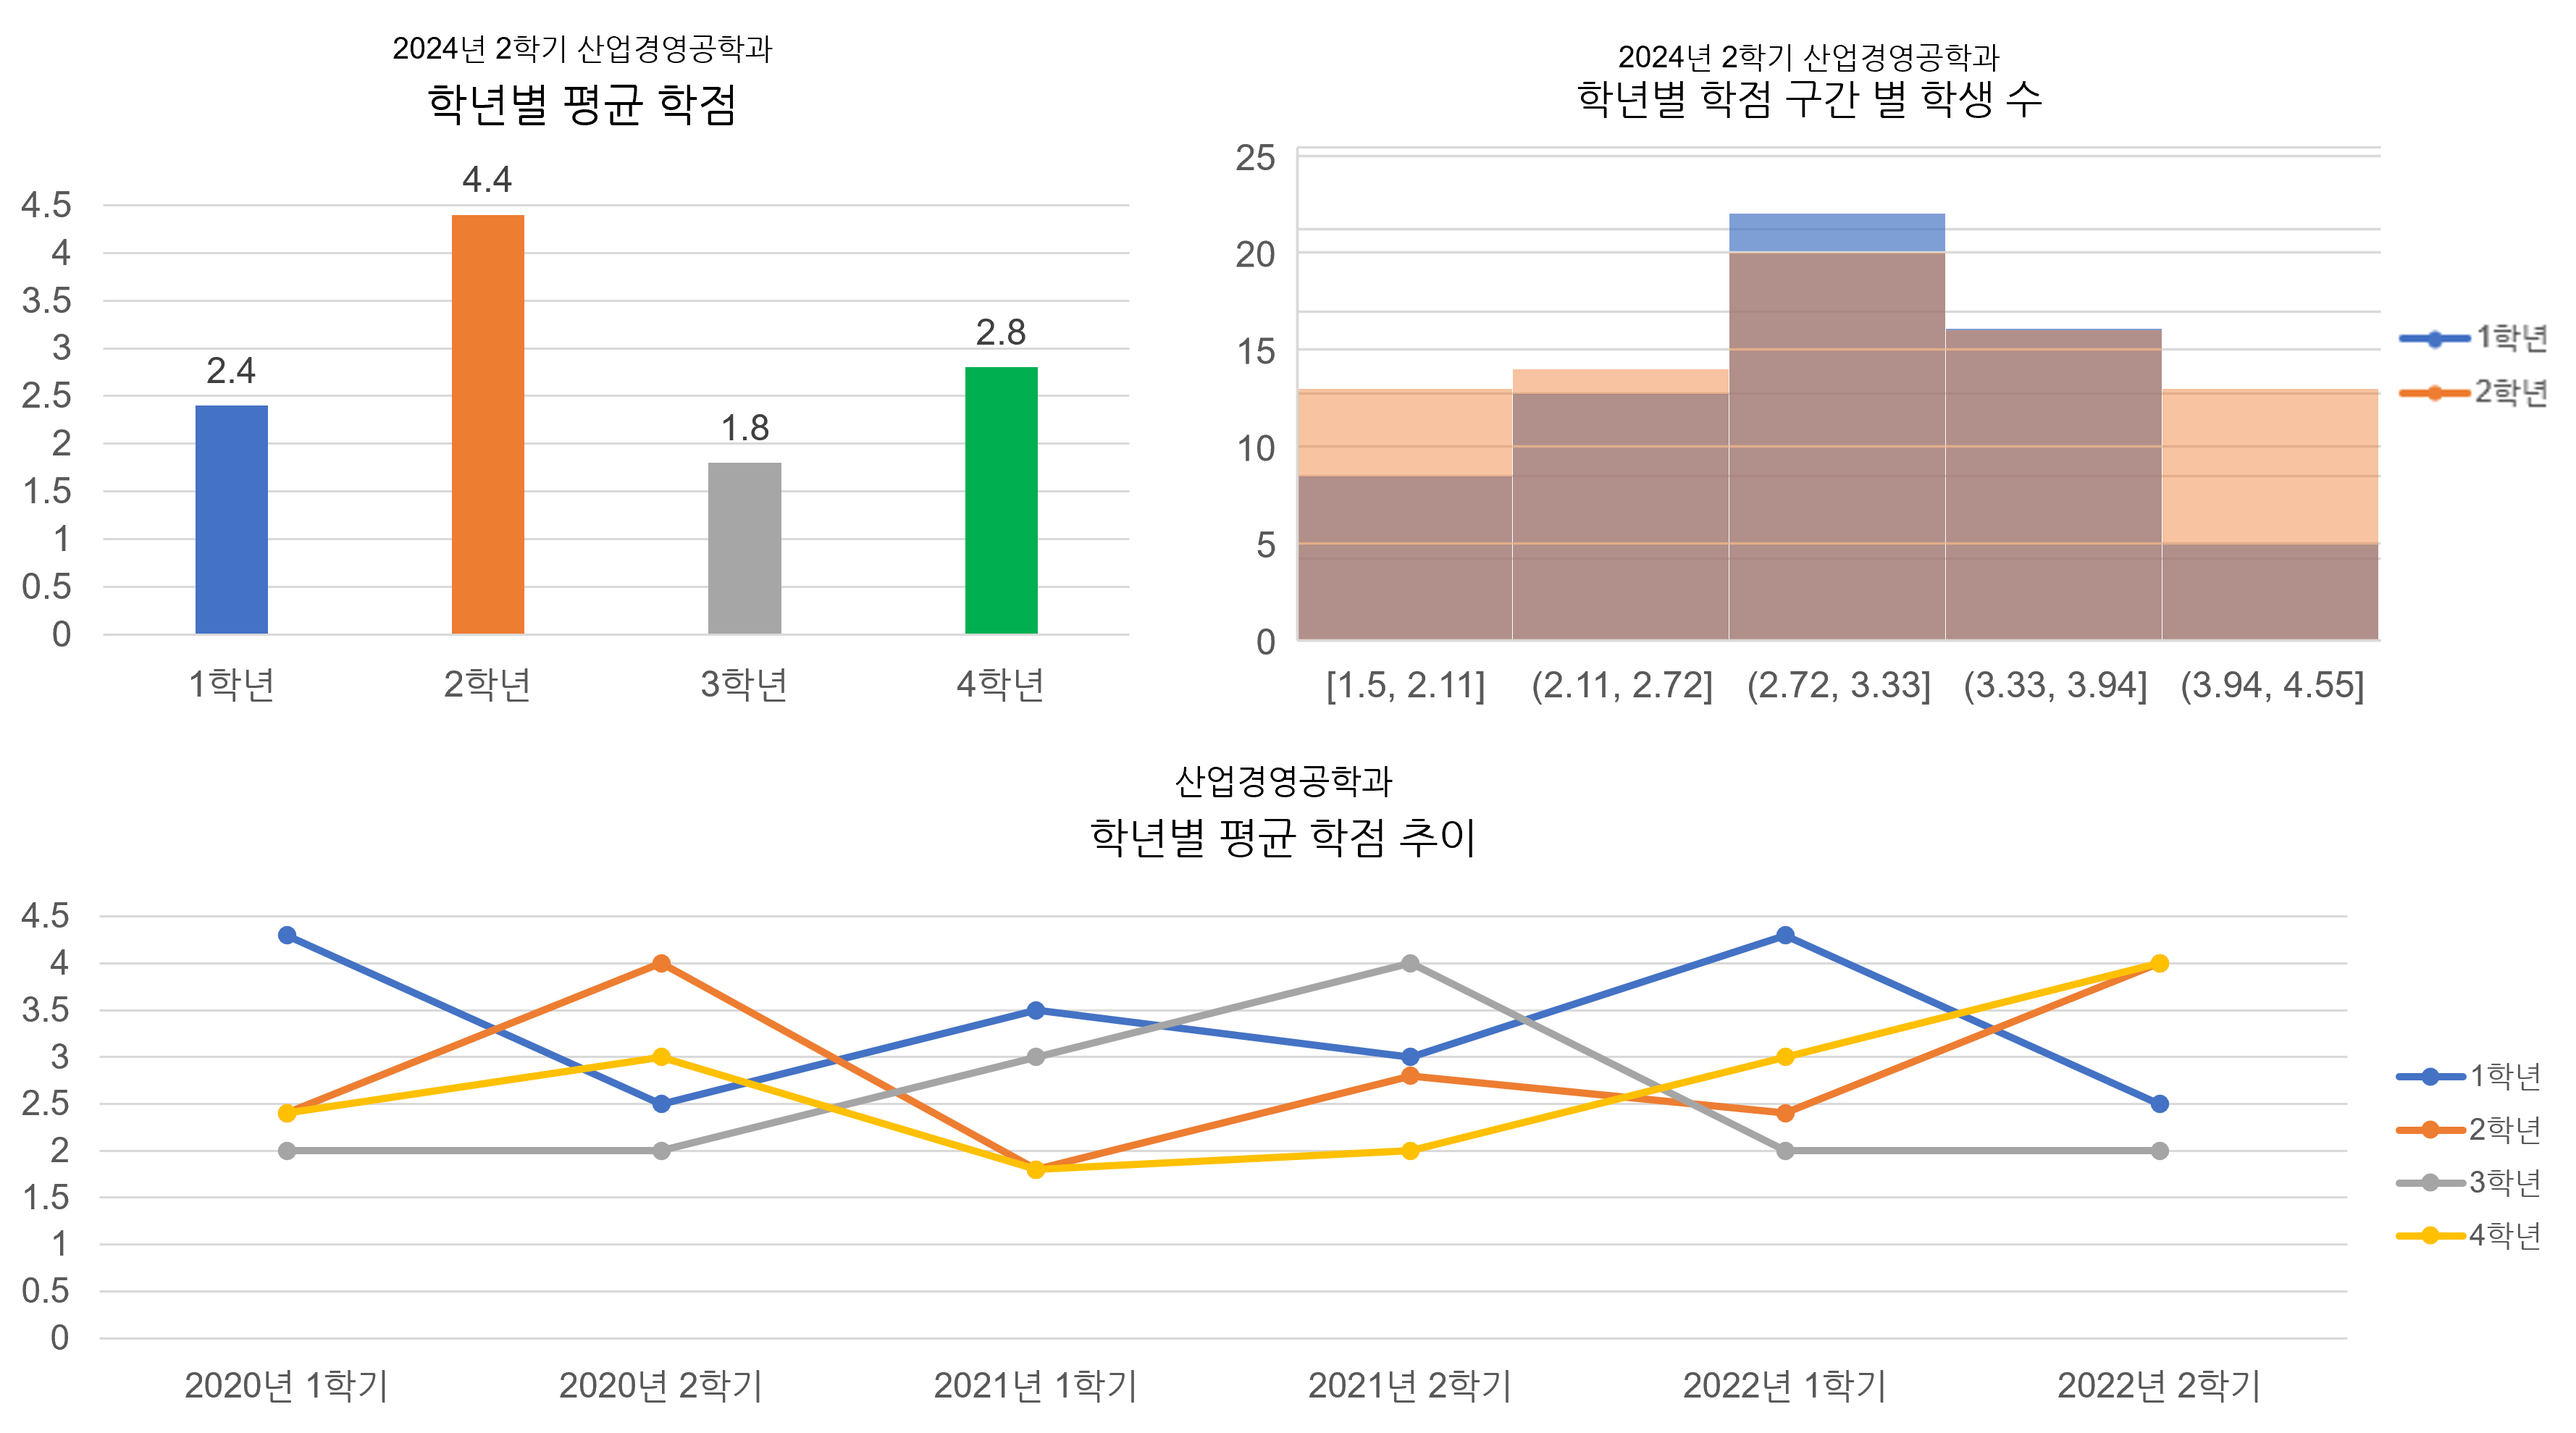
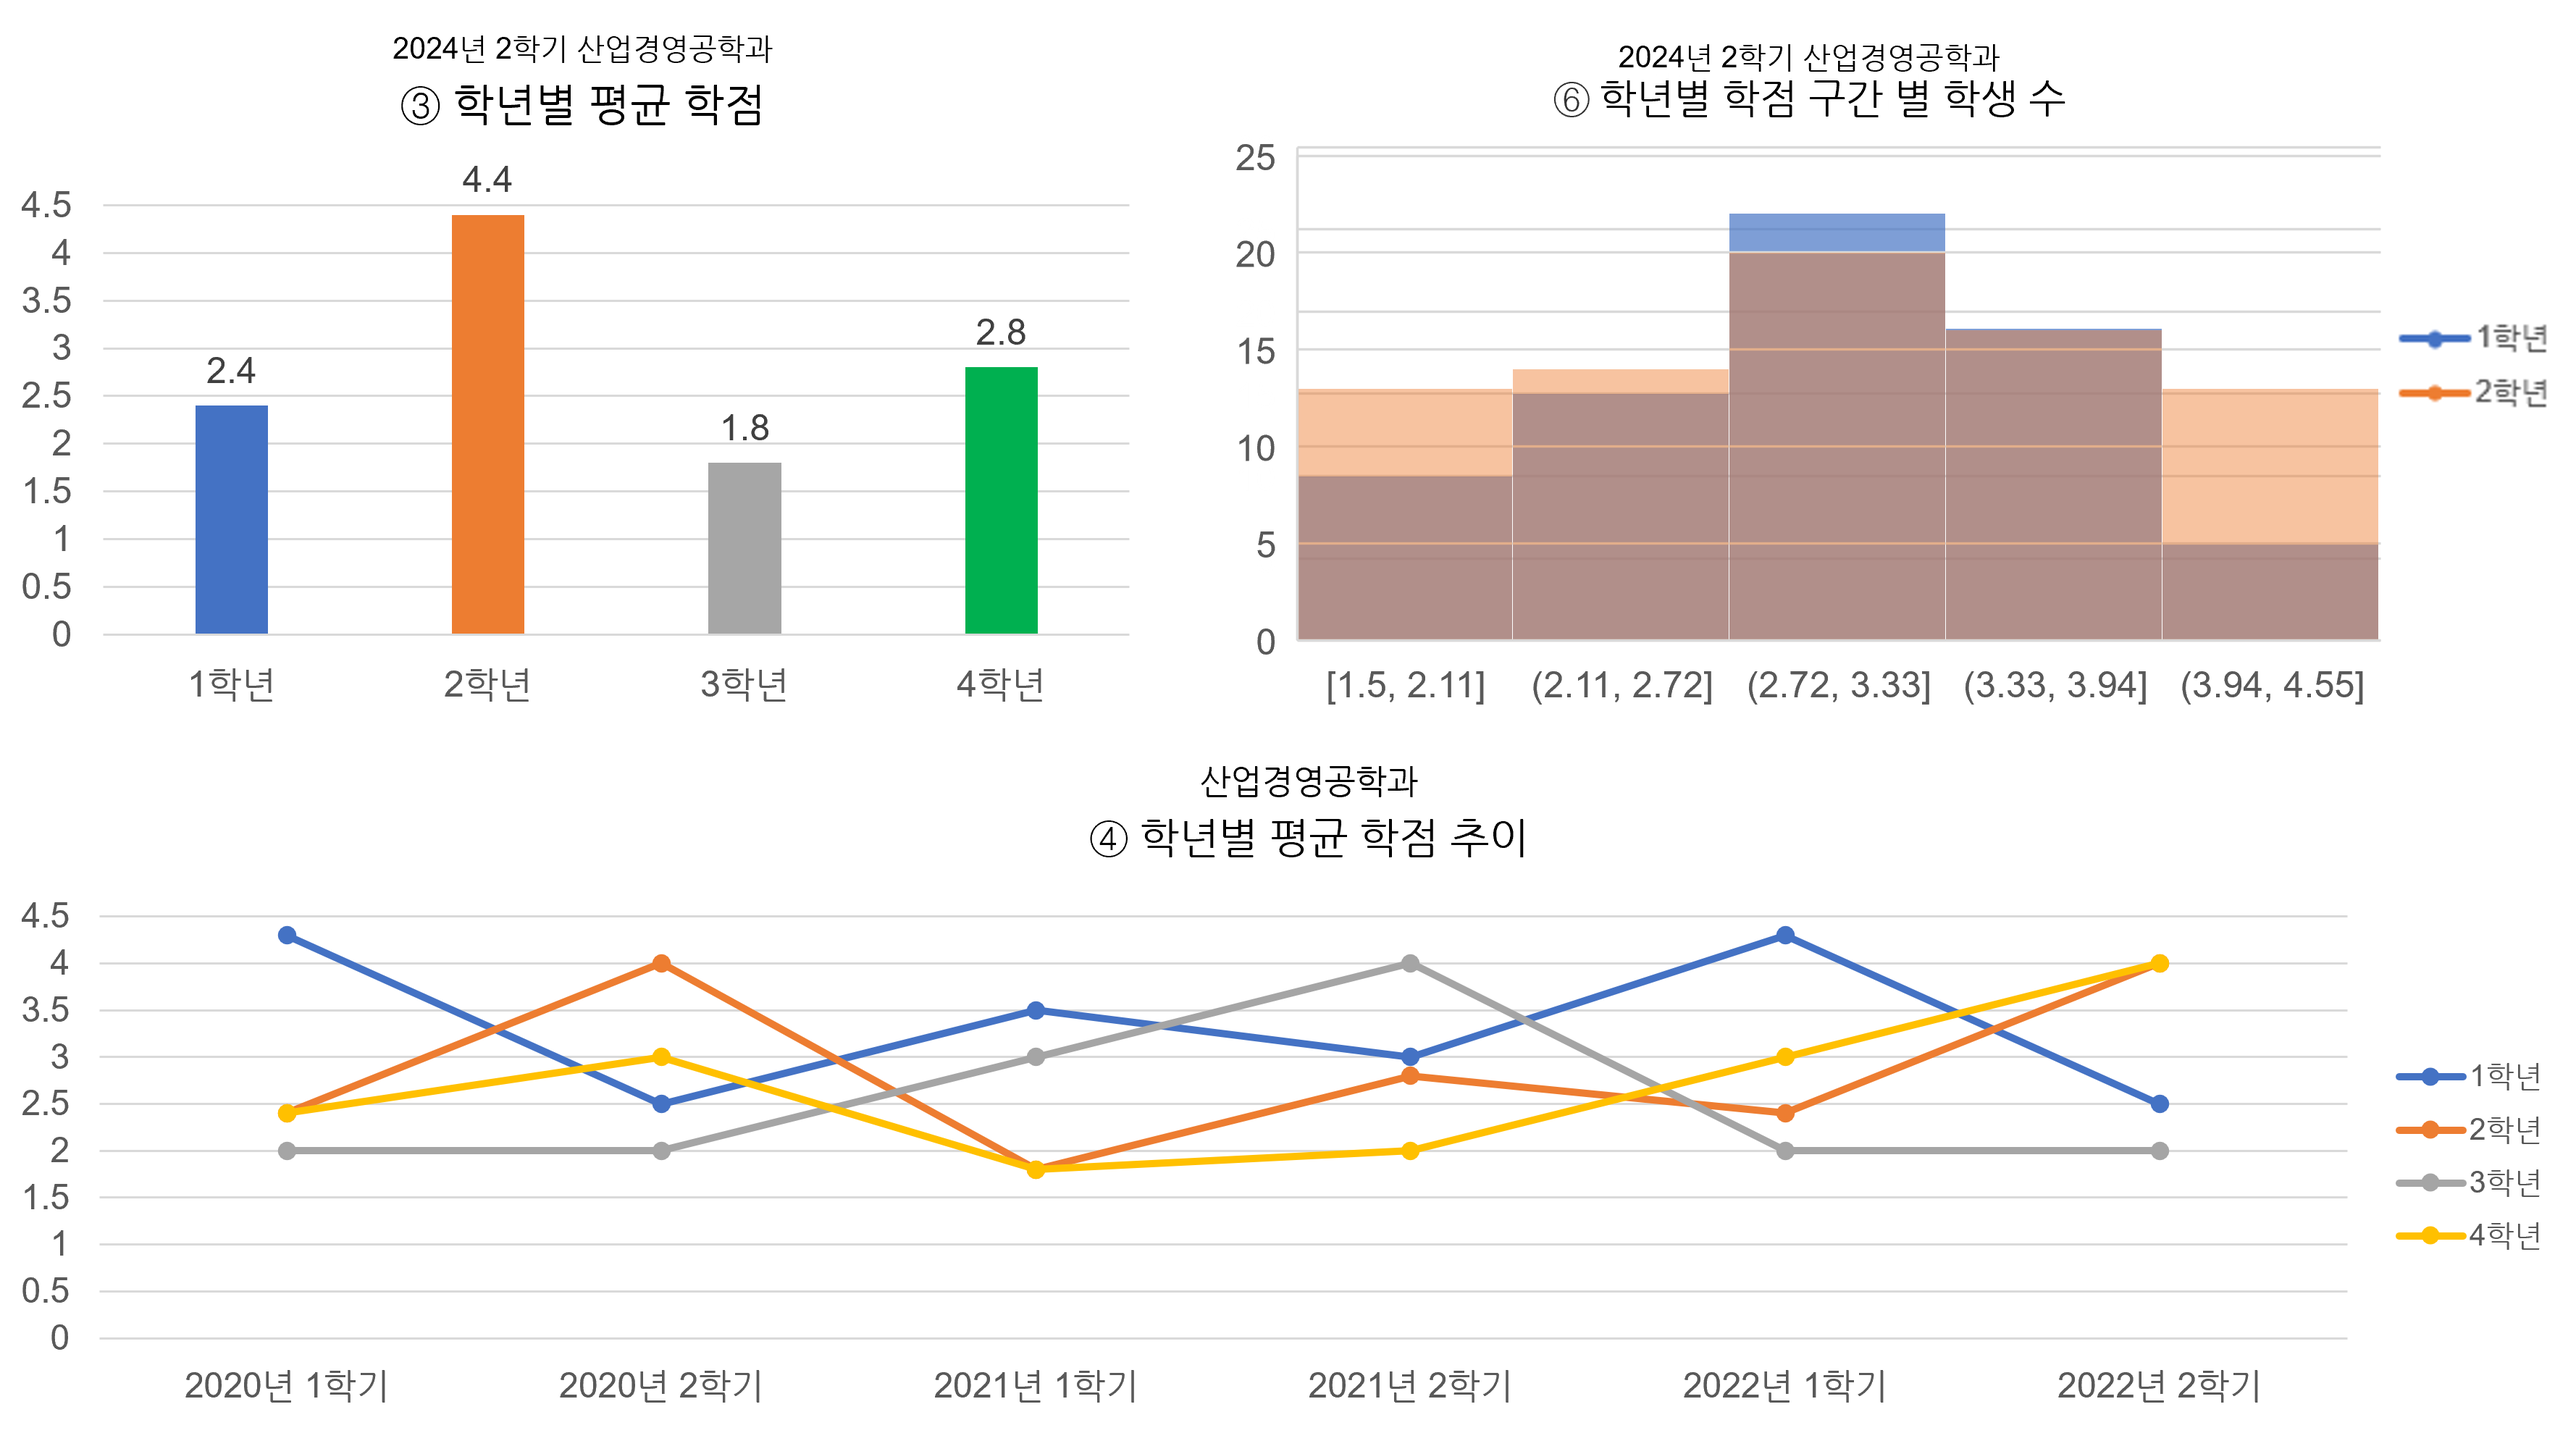
tjsxorwl

Changed region(s): [[0.4369, 0.524, 0.5929, 0.6165], [0.5929, 0.0616, 0.8114, 0.0925], [0.156, 0.0616, 0.3121, 0.0925]]

diff --git a/scripts.js b/scripts.js
@@ -151,7 +151,8 @@ document.addEventListener('DOMContentLoaded', function() {
     const departmentBtn2 = document.getElementById('department-average-btn');
     const yearBtn1 = document.getElementById('year-btn');
     const yearBtn2 = document.getElementById('grade-level-average-btn');
-
+    const aaa = document.getElementById('aaa-btn');
+    const bbb = document.getElementById('bbb-btn');
     // '학과별 학점' 버튼
     departmentBtn1.addEventListener('click', function() {
         //handleButtonClick(departmentBtn1, 'https://public.tableau.com/views/_17271092566780/sheet4?:language=ko-KR&:sid=&:redirect=auth&:display_count=n&:origin=viz_share_link');
@@ -176,5 +177,19 @@ document.addEventListener('DOMContentLoaded', function() {
         handleButtonClick(yearBtn1, '../image/학과 내 통계.png');
         side_active(yearBtn2) 
     });
+    // 'aaa' 버튼
+    aaa.addEventListener('click', function() {
+        //handleButtonClick(yearBtn1, 'https://public.tableau.com/shared/P89KFMRBQ?:display_count=n&:origin=viz_share_link');
+        handleButtonClick(aaa, '../image/평균학점.png');
+        side_active(yearBtn2) 
+    });
+    
+    // 'bbb' 버튼
+    bbb.addEventListener('click', function() {
+        //handleButtonClick(yearBtn1, 'https://public.tableau.com/shared/P89KFMRBQ?:display_count=n&:origin=viz_share_link');
+        handleButtonClick(bbb, '../image/학점구간.png');
+        side_active(yearBtn2) 
+    });
+   
 });
 

diff --git a/menu_grade/score-btn.html b/menu_grade/score-btn.html
@@ -53,6 +53,8 @@
             <div class="content-buttons" id="content-buttons">
                 <button id="department-btn" class="inactive-btn">학과별 통계</button>
                 <button id="year-btn" class="inactive-btn">학과 내 통계</button>
+                <button id="aaa-btn" class="inactive-btn">평균 학점</button>
+                <button id="bbb-btn" class="inactive-btn">학점 구간</button>
             </div>
             <!-- 학과별 학점, 연도별 학점 클릭 후 제목 표시 영역 -->
             <div id="selected-title" class="selected-title"></div>
